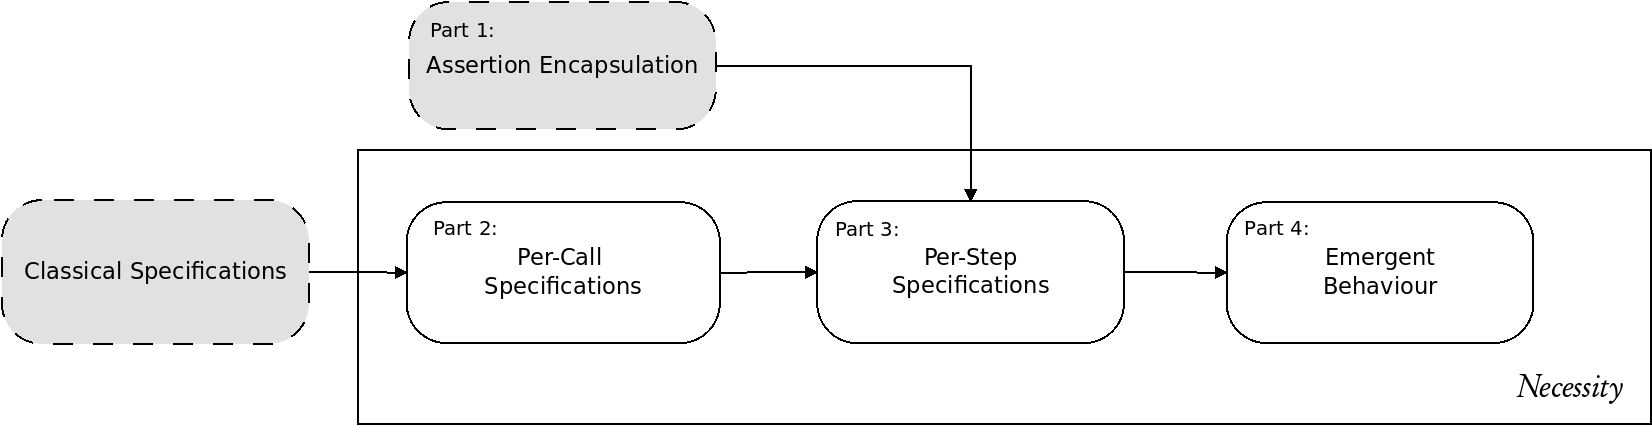
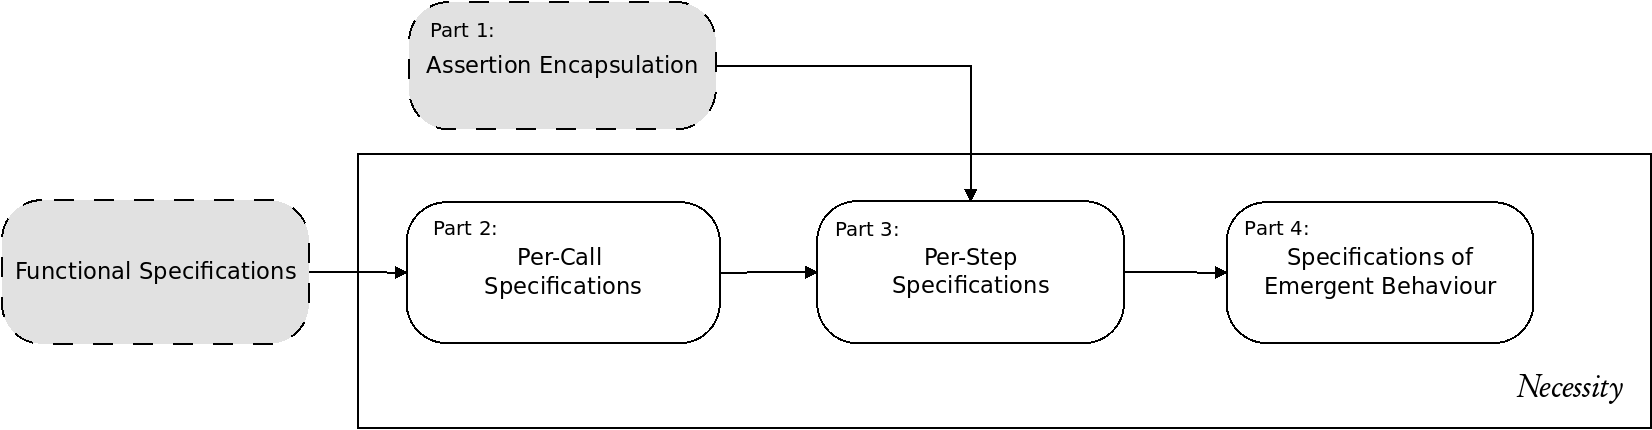
updated introduction

diff --git a/popl2022/introduction.tex b/popl2022/introduction.tex
@@ -21,7 +21,7 @@ programs don't do what they aren't supposed to do, even in the
 presence of untrusted or malicious {clients} \cite{ieeeStandard}.
 % robust = The degree to which a system or component can function correctly in the presence 
 % of invalid inputs or stressful environmental conditions.  
-{Correctness is} \jm[not sure what to do here wrt macro]{classically} specified
+{Correctness is} \jm[]{traditionally} specified
 %formally 
 through \citeasnoun{Hoare69} triples: a  precondition, a code snippet, and a
  postcondition. 
@@ -47,7 +47,7 @@ will always achieve the postcondition (the money is transferred).
 \Scorrect  describes  {the \emph{correct use} of the module, but is \emph{not} concerned with its \emph{robustness}.}
 {For example, can I pass an account to foreign untrusted code, in the expectation of receiving a payment,
 but without fear that a malicious client might use the account to steal my money \cite{ELang}?}
- A first approach to specify robustness could be:
+ A first \jm[]{attempt} to specify robustness could be:
  
 
 \begin{quote}
@@ -107,8 +107,9 @@ Both these approaches are able to express necessary conditions
   able to prove adherence to such specifications.}
 %
 
-\jm[]{A proof logic that is able to express properties such as \SrobustA and \SrobustB must tread a fine line: temporal operators are needed along with operators 
-that describe encapsulation and the shape of the heap, while also being simple enough that proof rules might be devised.}
+\jm[]{Developing a specification language with a proof logic that is able to prove properties such as \SrobustB is complex
+and must tread a fine line: the language must be rich enough to express complex specifications; temporal operators are needed along with object capability style operators 
+that describe \emph{permission} and \emph{provenance}, while also being simple enough that proof rules might be devised.}
 \jm[This is the first mention of \Nec apart from the abstract]{In this paper we introduce \Nec,} the first approach that is able to  both express and prove
 robustness specifications such as  \SrobustB.
 
@@ -220,29 +221,35 @@ Unlike  \emph{Chainmail}'s temporal operators,
  
 We faced the challenge  how to develop a logic that would enable us to prove that code 
  adhered to  specifications {talking of system-wide properties.} 
-%The Eureka moment was the realisation that all the information we required was hiding  { in the individual methods' classical specifications:}
-The Eureka moment \jm[four? is 2 an observation?]{arose from four crucial observations:} %{ in the individual methods' classical specifications:}
-\jm[]{\begin{enumerate}
-\item 
-If an assertion is invalidated over an arbitrary number of execution steps, then there must have
-been some single execution step that invalidated it.
-\item
-Some assertions are ``\emph{encapsulated}'' by a module, and require calls to that module to invalidate them.
-\item
-If all methods within a module share the same necessary precondition to invalidate an ``\emph{encapsulated}'' assertion,
-then that precondition is generally necessary to invalidate that assertion.
-\item
-Necessary preconditions to functions can be encoded using functional specifications.
-\end{enumerate}}
-%\jm[]{These four observations are the basis of \Nec.}
+ \jm[]{
+ The solution arose from three observations: (1) proofs of \Nec specifications
+ in the open world must be based around encapsulation and permission,
+ (2) \Nec specifications of emergent behaviour can be built up from \Nec specifications on individual 
+ functions, which (3) in turn can be encoded as traditional \funcSpecs.}
+ 
+%%The Eureka moment was the realisation that all the information we required was hiding  { in the individual methods' classical specifications:}
+%The Eureka moment \jm[four? is 2 an observation?]{arose from four crucial observations:} %{ in the individual methods' classical specifications:}
+%\jm[]{\begin{enumerate}
+%\item 
+%If an assertion is invalidated over an arbitrary number of execution steps, then there must have
+%been some single execution step that invalidated it.
+%\item
+%Proofs of necessary conditions in the open world must be based on restricted permission
+%\item
+%If all methods within a module share the same necessary precondition to invalidate an ``\emph{encapsulated}'' assertion,
+%then that precondition is generally necessary to invalidate that assertion.
+%\item
+%Necessary preconditions to functions can be encoded using functional specifications.
+%\end{enumerate}}
+%%\jm[]{These four observations are the basis of \Nec.}
   
 
 \vspace{.02in}
 \sophiaPonder[moved to earlier-I think fits better]{ }
-Our work % formalization of \Nec  
-{is 
+\jm[]{A strength of our} work % formalization of \Nec  
+is \jm[]{that it is
 parametric} with respect to assertion
-satisfaction \jm[]{and} encapsulation\jm[removed:, and the type system]{}.
+satisfaction, encapsulation, \jm[]{and functional specifications, all of which are well covered in the literature}.
 We require  
 \funcSpecs to have explicit framing.
 {{Moreover, in line} with other work in the literature,} we forbid 
